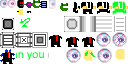
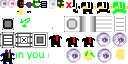
Add Smoker and Fang weapon helmets - Smoker sprays toxic pink gas, Fang sprays red venom like spider

Changed region(s): [[0.4375, 0.0, 0.5938, 0.1875], [0.4062, 0.4375, 0.4375, 0.4688], [0.125, 0.0312, 0.1562, 0.0625]]

diff --git a/appObjects.js b/appObjects.js
@@ -371,7 +371,7 @@ class Checkpoint extends GameObject
     {
         // draw flag
         const height = 4;
-        const color = activeCheckpoint == this ? new Color(1,0,0) : new Color;
+        const color = activeCheckpoint == this ? new Color : new Color(1,0,0);
         const a = Math.sin(time*4+this.pos.x);
         drawTile(this.pos.add(vec2(.5,height-.3-.5-.03*a)), vec2(1,.6), 14, undefined, color, a*.06);  
         drawRect(this.pos.add(vec2(0,height/2-.5)), vec2(.1,height), new Color(.9,.9,.9));
@@ -538,6 +538,79 @@ class HammerProjectile extends GameObject
 
 ///////////////////////////////////////////////////////////////////////////////
 
+class ToxicGasCloud extends GameObject
+{
+    constructor(pos, attacker) 
+    {
+        super(pos, vec2(2), 0, vec2(8)); // Large cloud size
+
+        this.health = this.healthMax = 1e3;
+        this.attacker = attacker;
+        this.team = attacker ? attacker.team : 0;
+        this.lifetime = 3; // Gas cloud lasts 3 seconds
+        this.damagePerSecond = 20; // Extreme damage - 20 per second
+        this.damageTimer = new Timer(0.1); // Damage every 0.1 seconds
+        this.radius = 2; // Damage radius
+        this.setCollision();
+        this.color = new Color(1, 0.4, 0.8, 0.6); // Pink gas color
+    }
+
+    update()
+    {
+        super.update();
+
+        // Check lifetime
+        if (this.getAliveTime() > this.lifetime)
+        {
+            this.destroy();
+            return;
+        }
+
+        // Damage enemies in range
+        if (this.damageTimer.elapsed())
+        {
+            forEachObject(this.pos, this.radius, (o)=>
+            {
+                if (o.isGameObject && !o.parent && o.team != this.team)
+                {
+                    if (o.isCharacter)
+                    {
+                        const d = o.pos.distance(this.pos);
+                        if (d < this.radius)
+                        {
+                            // Deal damage proportional to time (damagePerSecond * 0.1)
+                            o.damage(this.damagePerSecond * 0.1, this);
+                        }
+                    }
+                }
+            });
+            this.damageTimer.set(0.1);
+        }
+
+        // Create pink gas particles
+        new ParticleEmitter(
+            this.pos, this.radius, 0, 50, PI * 2, // pos, emitSize, emitTime, emitRate, emiteCone
+            0, undefined,        // tileIndex, tileSize
+            new Color(1, 0.4, 0.8, 0.8), new Color(1, 0.2, 0.6, 0.4), // Pink colorStartA, colorStartB
+            new Color(1, 0.4, 0.8, 0), new Color(1, 0.2, 0.6, 0), // colorEndA, colorEndB
+            1.5, .3, 1, .05, .02, // particleTime, sizeStart, sizeEnd, particleSpeed, particleAngleSpeed
+            .95, 1, -.1, PI * 2, .1,  // damping, angleDamping, gravityScale, particleCone, fadeRate, 
+            .5, 0, 0, 0, 1e8              // randomness, collide, additive, randomColorLinear, renderOrder
+        );
+    }
+    
+    render()
+    {
+        // Draw semi-transparent pink cloud
+        setBlendMode(1);
+        const alpha = 0.3 * (1 - this.getAliveTime() / this.lifetime); // Fade out over time
+        drawTile(this.pos, vec2(this.radius), 0, vec2(16), new Color(1, 0.4, 0.8, alpha), 0);
+        setBlendMode(0);
+    }
+}
+
+///////////////////////////////////////////////////////////////////////////////
+
 class KeyItem extends GameObject
 {
     constructor(pos)
@@ -637,7 +710,7 @@ class KeyItem extends GameObject
 ///////////////////////////////////////////////////////////////////////////////
 
 // Item type definitions
-// Order: Life (0), Health (1), Laser (2), Cannon (3), Jumper (4), Hammer (5), Radar (6)
+// Order: Life (0), Health (1), Laser (2), Cannon (3), Jumper (4), Hammer (5), Radar (6), Smoker (7), Fang (8)
 const itemType_life = 0;
 const itemType_health = 1;
 const itemType_laser = 2;
@@ -645,6 +718,8 @@ const itemType_cannon = 3;
 const itemType_jumper = 4;
 const itemType_hammer = 5;
 const itemType_radar = 6;
+const itemType_smoker = 7;
+const itemType_fang = 8;
 
 const itemType_consumable = 0;
 const itemType_equipable = 1;
@@ -686,11 +761,21 @@ const itemRegistry = {
         category: itemType_equipable, 
         tileIndex: 6, 
         weaponType: 'RadarWeapon' 
+    },
+    [itemType_smoker]: { 
+        category: itemType_equipable, 
+        tileIndex: 7, 
+        weaponType: 'SmokerWeapon' 
+    },
+    [itemType_fang]: { 
+        category: itemType_equipable, 
+        tileIndex: 8, 
+        weaponType: 'FangWeapon' 
     }
 };
 
 // Get all available item types for random selection
-const getAllItemTypes = ()=> [itemType_life, itemType_health, itemType_laser, itemType_cannon, itemType_jumper, itemType_hammer, itemType_radar];
+const getAllItemTypes = ()=> [itemType_life, itemType_health, itemType_laser, itemType_cannon, itemType_jumper, itemType_hammer, itemType_radar, itemType_smoker, itemType_fang];
 
 ///////////////////////////////////////////////////////////////////////////////
 
@@ -1606,6 +1691,129 @@ class RadarWeapon extends Weapon
         }
         
         super.destroy();
+    }
+}
+
+///////////////////////////////////////////////////////////////////////////////
+
+class SmokerWeapon extends Weapon
+{
+    constructor(pos, parent)
+    {
+        super(pos, parent);
+        this.fireTimeBuffer = 0;
+        this.gasSpawnRate = 0.1; // Spawn gas cloud every 0.1 seconds
+        this.hidden = 1; // Don't render the weapon sprite (helmet is rendered separately)
+    }
+    
+    update()
+    {
+        super.update();
+        
+        // Only handle gas spraying for player
+        if (!this.parent.isPlayer)
+            return;
+        
+        this.fireTimeBuffer += timeDelta;
+        
+        // Check if F key is pressed (key code 70)
+        const pressingF = !this.parent.playerIndex && keyIsDown(70);
+        
+        if (pressingF)
+        {
+            // Spawn gas clouds continuously while F is held
+            while (this.fireTimeBuffer >= this.gasSpawnRate)
+            {
+                this.fireTimeBuffer -= this.gasSpawnRate;
+                
+                // Calculate weapon position (where gas comes from)
+                const sizeScale = this.parent.sizeScale || 1;
+                const weaponPos = this.parent.pos.add(
+                    vec2(this.parent.getMirrorSign(.55), 0).scale(sizeScale)
+                );
+                
+                // Get forward direction based on aim
+                const baseAimAngle = this.parent.aimAngle || 0;
+                const forwardDirection = vec2(this.parent.getMirrorSign(1), 0).rotate(baseAimAngle);
+                
+                // Spawn gas cloud slightly forward
+                const gasPos = weaponPos.add(forwardDirection.scale(0.5));
+                
+                // Create toxic gas cloud
+                const gas = new ToxicGasCloud(gasPos, this.parent);
+                
+                // Add slight forward velocity
+                gas.velocity = this.parent.velocity.add(forwardDirection.scale(0.3));
+                
+                // Alert enemies
+                alertEnemies(gasPos, gasPos);
+            }
+        }
+        else
+        {
+            // Not pressing F, reset buffer
+            this.fireTimeBuffer = min(this.fireTimeBuffer, 0);
+        }
+    }
+}
+
+///////////////////////////////////////////////////////////////////////////////
+
+class FangWeapon extends Weapon
+{
+    constructor(pos, parent)
+    {
+        super(pos, parent);
+        this.fireTimeBuffer = 0;
+        this.hidden = 1; // Don't render the weapon sprite (helmet is rendered separately)
+    }
+    
+    update()
+    {
+        super.update();
+        
+        // Only handle venom spraying for player
+        if (!this.parent.isPlayer)
+            return;
+        
+        // Check if F key is pressed (key code 70)
+        const pressingF = !this.parent.playerIndex && keyIsDown(70);
+        
+        if (pressingF)
+        {
+            // Same parameters as spider venom spray
+            const particleSpeed = .3;
+            const particleRate = 8; // Fast firing rate
+            const spread = 0.03; // Very tight spread for good aim
+            
+            this.fireTimeBuffer += timeDelta;
+            const rate = 1/particleRate;
+            
+            // Get forward direction based on aim
+            const baseAimAngle = this.parent.aimAngle || 0;
+            const forwardDirection = vec2(this.parent.getMirrorSign(1), 0).rotate(baseAimAngle);
+            
+            // Calculate weapon position (where venom comes from)
+            const sizeScale = this.parent.sizeScale || 1;
+            const weaponPos = this.parent.pos.add(
+                vec2(this.parent.getMirrorSign(.55), 0).scale(sizeScale)
+            );
+            
+            for(; this.fireTimeBuffer > 0; this.fireTimeBuffer -= rate)
+            {
+                // Create red venom particle exactly like spider
+                const particle = new VenomParticle(weaponPos, this.parent, new Color(1, 0, 0));
+                
+                // Fire particle in forward direction with small spread
+                const spreadAngle = rand(spread, -spread);
+                particle.velocity = forwardDirection.rotate(spreadAngle).scale(particleSpeed);
+            }
+        }
+        else
+        {
+            // Not pressing F, reset buffer
+            this.fireTimeBuffer = min(this.fireTimeBuffer, 0);
+        }
     }
 }
 

diff --git a/appCharacters.js b/appCharacters.js
@@ -3035,6 +3035,10 @@ class Player extends Character
             newWeapon = new HammerWeapon(this.pos, this);
         else if (weaponType == 'RadarWeapon')
             newWeapon = new RadarWeapon(this.pos, this);
+        else if (weaponType == 'SmokerWeapon')
+            newWeapon = new SmokerWeapon(this.pos, this);
+        else if (weaponType == 'FangWeapon')
+            newWeapon = new FangWeapon(this.pos, this);
         else
             newWeapon = new Weapon(this.pos, this);
         
@@ -3065,6 +3069,10 @@ class Player extends Character
                 itemType = typeof itemType_hammer !== 'undefined' ? itemType_hammer : 5;
             else if (currentWeaponType == 'RadarWeapon')
                 itemType = typeof itemType_radar !== 'undefined' ? itemType_radar : 6;
+            else if (currentWeaponType == 'SmokerWeapon')
+                itemType = typeof itemType_smoker !== 'undefined' ? itemType_smoker : 7;
+            else if (currentWeaponType == 'FangWeapon')
+                itemType = typeof itemType_fang !== 'undefined' ? itemType_fang : 8;
             
             // Create item slightly away from player so it doesn't immediately get collected
             if (itemType >= 0)

diff --git a/app.js b/app.js
@@ -346,6 +346,10 @@ engineInit(
                     headwearTileIndex = 5; // itemType_hammer tileIndex
                 else if (player.equippedWeaponType == 'RadarWeapon')
                     headwearTileIndex = 6; // itemType_radar tileIndex
+                else if (player.equippedWeaponType == 'SmokerWeapon')
+                    headwearTileIndex = 7; // itemType_smoker tileIndex
+                else if (player.equippedWeaponType == 'FangWeapon')
+                    headwearTileIndex = 8; // itemType_fang tileIndex
                 
                 if (headwearTileIndex >= 0 && typeof drawTile2 === 'function')
                 {
